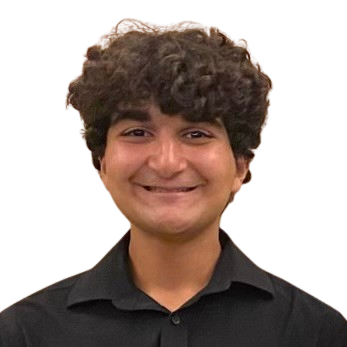
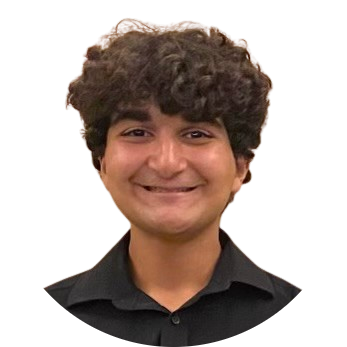
Headshot Formatting

Changed region(s): [[0.5187, 0.8357, 1.0, 1.0], [0.0, 0.8357, 0.4611, 1.0]]

diff --git a/src/routes/+page.svelte b/src/routes/+page.svelte
@@ -10,7 +10,7 @@
 	<div class="max-w-6xl mx-auto px-6 py-0 flex flex-col lg:flex-row lg:items-start gap-12">
 		<!-- Hero (fills viewport height on large screens) -->
 		<section id="hero" class="lg:w-1/2 flex items-center h-screen lg:sticky top-0">
-			<div class="flex items-center gap-6 w-full">
+			<div class="flex flex-col sm:flex-row items-start gap-6 w-full text-left">
 				<!-- Picture -->
 				<div class="flex-shrink-0">
 					<img src={headshot} alt="Headshot" class="w-28 h-28 sm:w-36 sm:h-36 rounded-full object-cover shadow-sm" />

diff --git a/src/routes/+layout.svelte b/src/routes/+layout.svelte
@@ -1,6 +1,6 @@
 <script lang="ts">
 	import './layout.css';
-	import favicon from '$lib/assets/favicon.svg';
+	import headshot from '$lib/assets/headshot.png';
 	import GithubIcon from '@iconify-svelte/line-md/github';
 	import TwitterIcon from '@iconify-svelte/line-md/twitter';
 	import LinkedinIcon from '@iconify-svelte/line-md/linkedin';
@@ -11,7 +11,8 @@
 </script>
 
 <svelte:head>
-	<link rel="icon" href={favicon} />
+	<title>Arman Pathan</title>
+	<link rel="icon" href={headshot} />
 </svelte:head>
 {@render children()}
 
